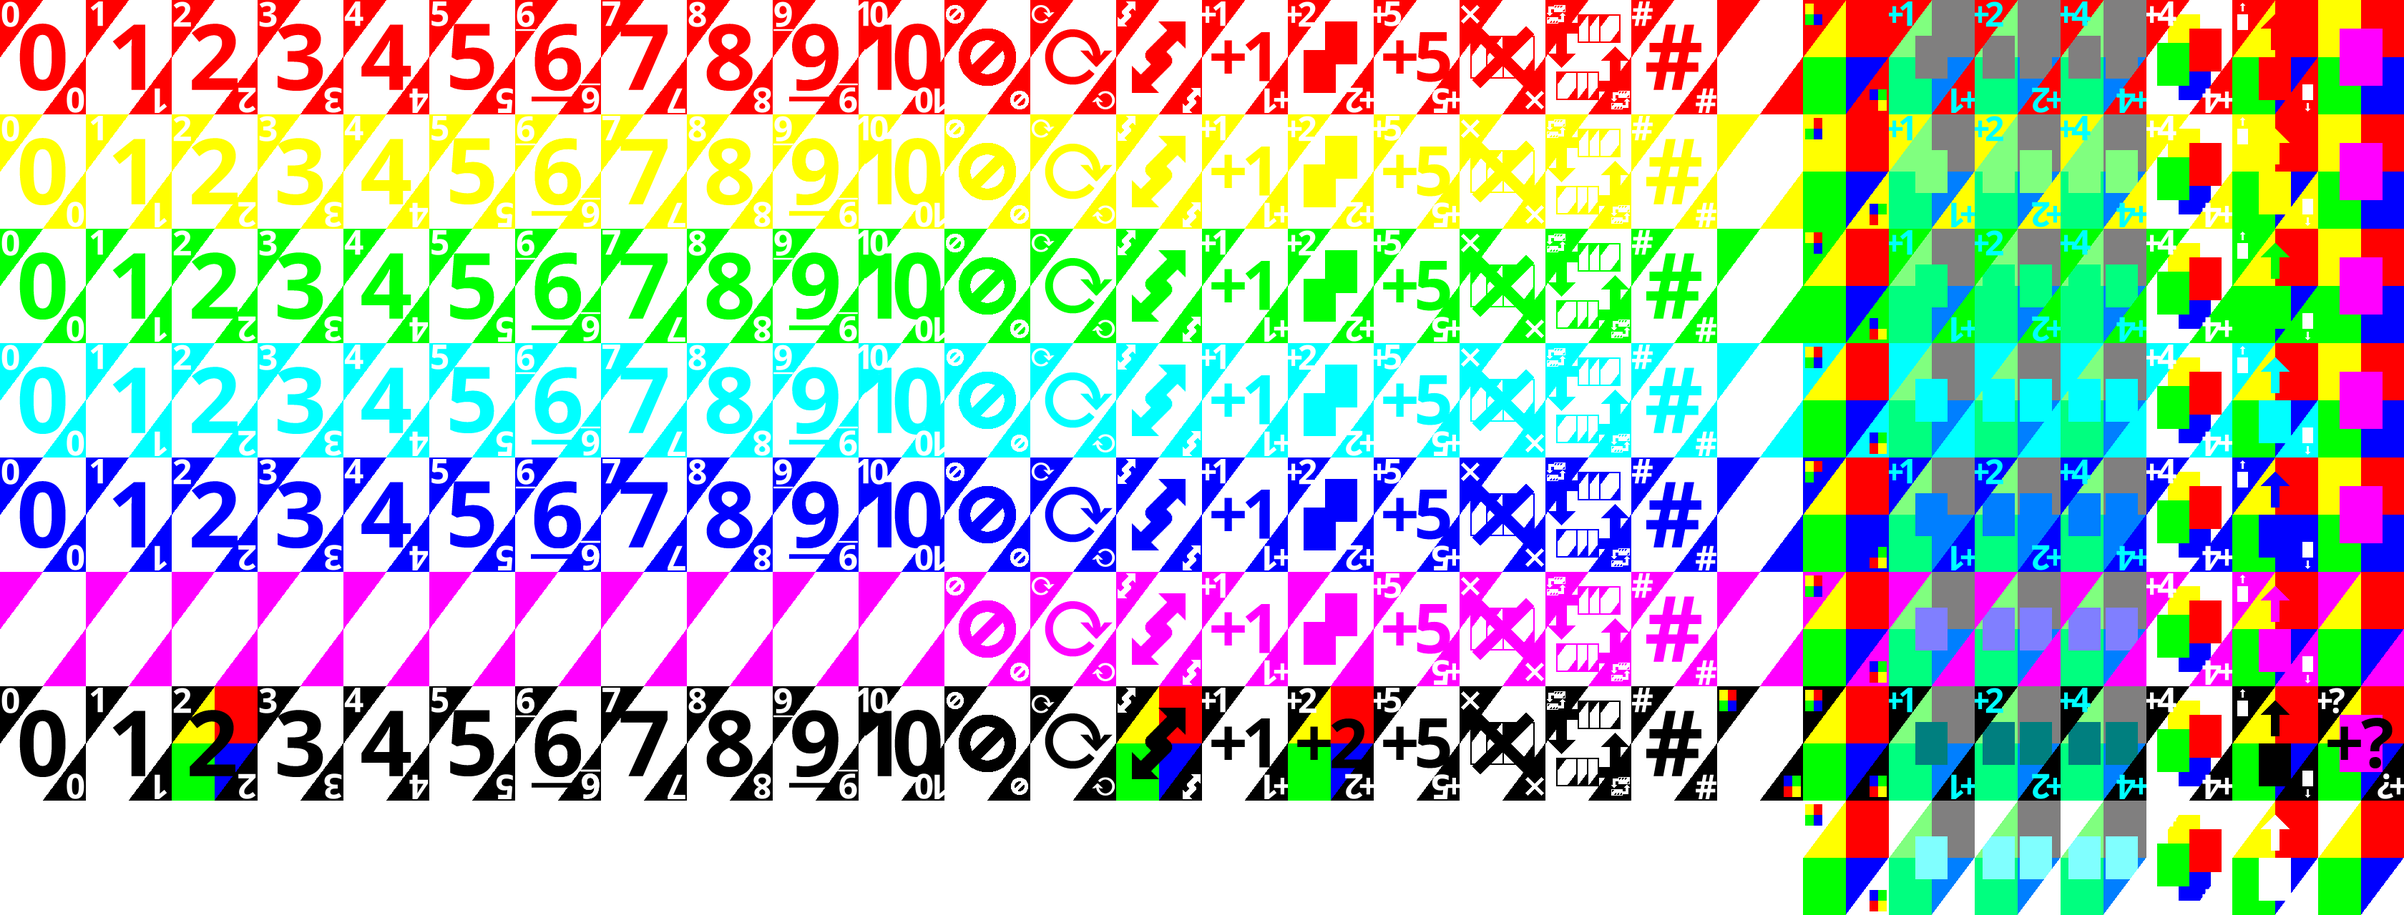
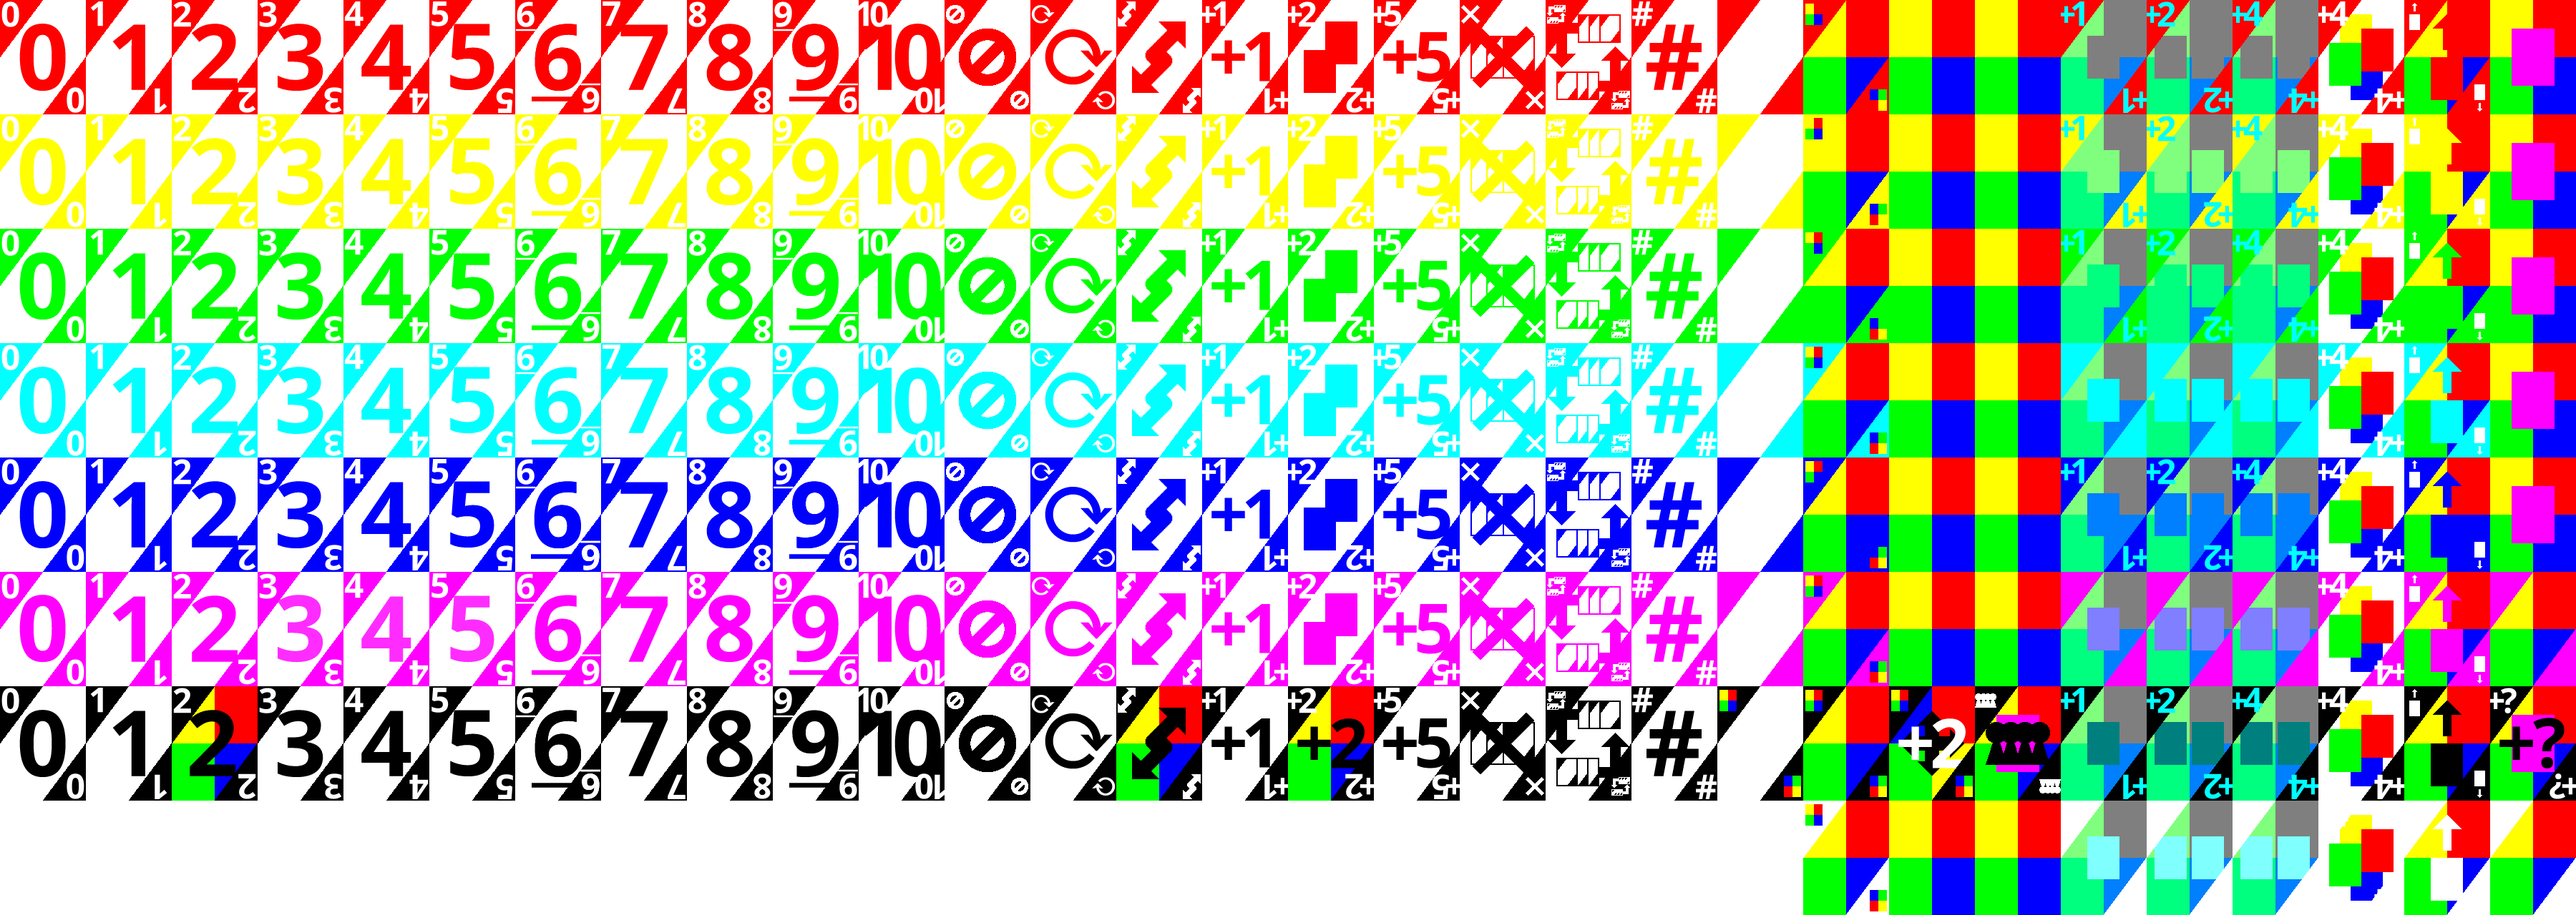
添加项目文件。

diff --git a/Uno/Uno.cs b/Uno/Uno.cs
@@ -15,12 +15,14 @@ namespace Uno
         private static readonly byte[]
             mvcList = new byte[UnoNumber.MaxValue]
             {
-                UnoNumber.WildHitfire,
+                UnoNumber.WildHitFire,
                 UnoNumber.WildDrawColor,
                 UnoNumber.WildDraw4,
                 UnoNumber.WildDownpourDraw4,
                 UnoNumber.WildDownpourDraw2,
                 UnoNumber.WildDownpourDraw1,
+                UnoNumber.WildAllHit,
+                UnoNumber.WildAttackAttack,
                 UnoNumber.Wild,
                 UnoNumber.Blank,
                 UnoNumber.DiscardAll,
@@ -48,25 +50,29 @@ namespace Uno
                 UnoNumber.Blank,
                 UnoNumber.TradeHands,
                 UnoNumber.Wild,
+                UnoNumber.WildAttackAttack,
+                UnoNumber.WildAllHit,
                 UnoNumber.WildDownpourDraw1,
                 UnoNumber.WildDownpourDraw2,
                 UnoNumber.WildDownpourDraw4,
                 UnoNumber.WildDraw4,
                 UnoNumber.WildDrawColor,
-                UnoNumber.WildHitfire
+                UnoNumber.WildHitFire
             },
             wildPlaylist = new byte[UnoNumber.MaxValue]
             {
                 UnoNumber.Wild,
                 2,
                 UnoNumber.Blank,
+                UnoNumber.WildAttackAttack,
+                UnoNumber.WildAllHit,
                 UnoNumber.WildDownpourDraw1,
                 UnoNumber.WildDownpourDraw2,
                 UnoNumber.WildDownpourDraw4,
                 UnoNumber.Draw2,
                 UnoNumber.WildDraw4,
                 UnoNumber.WildDrawColor,
-                UnoNumber.WildHitfire,
+                UnoNumber.WildHitFire,
                 UnoNumber.Reverse,
                 UnoNumber.SkipEveryone,
                 UnoNumber.DiscardAll,
@@ -338,10 +344,10 @@ namespace Uno
             else if (!options.mnuPlayOrDrawAll.Checked
                 && lblCards[1].Text == UnoNumberName.WildHitfire && draw > 0)
             {
-                if (players[player].cards[UnoColor.Black, UnoNumber.WildHitfire] > 0)
+                if (players[player].cards[UnoColor.Black, UnoNumber.WildHitFire] > 0)
                 {
                     bestCard.color = UnoColor.Black;
-                    bestCard.number = UnoNumber.WildHitfire;
+                    bestCard.number = UnoNumber.WildHitFire;
                 }
                 else if (options.mnuWildPunch.Checked
                     && players[player].cards[UnoColor.Black, UnoNumber.Reverse] > 0)
@@ -765,7 +771,7 @@ namespace Uno
                             goto deny;
                         break;
                     case UnoNumberName.WildHitfire:
-                        if (draw > 0 && card[0].number != UnoNumber.WildHitfire
+                        if (draw > 0 && card[0].number != UnoNumber.WildHitFire
                             && (card[0].number != UnoNumber.Reverse || card.Last().color != UnoColor.Black))
                             goto deny;
                         break;
@@ -1445,12 +1451,12 @@ namespace Uno
                         return new Card(UnoColor.Black, UnoNumber.Reverse);
                     return null;
                 }
-                if (backNumber == UnoNumber.WildHitfire && !options.mnuPlayOrDrawAll.Checked)
+                if (backNumber == UnoNumber.WildHitFire && !options.mnuPlayOrDrawAll.Checked)
                 {
                     if (pile.cards[UnoColor.Black, UnoNumber.Reverse] > 0)
                         return new Card(UnoColor.Black, UnoNumber.Reverse);
-                    if (pile.cards[UnoColor.Black, UnoNumber.WildHitfire] > 0)
-                        return new Card(UnoColor.Black, UnoNumber.WildHitfire);
+                    if (pile.cards[UnoColor.Black, UnoNumber.WildHitFire] > 0)
+                        return new Card(UnoColor.Black, UnoNumber.WildHitFire);
                     return null;
                 }
                 if (backNumber == UnoNumber.WildDrawColor && !options.mnuPlayOrDrawAll.Checked)
@@ -1686,12 +1692,14 @@ namespace Uno
                 UnoNumber.Number => UnoNumberName.Number,
                 UnoNumber.Blank => options.txtBlankText.Text,
                 UnoNumber.Wild => UnoNumberName.Wild,
+                UnoNumber.WildAttackAttack => UnoNumberName.WildAttackAttack,
+                UnoNumber.WildAllHit => UnoNumberName.WildAllHit,
                 UnoNumber.WildDownpourDraw1 => UnoNumberName.WildDownpourDraw1,
                 UnoNumber.WildDownpourDraw2 => UnoNumberName.WildDownpourDraw2,
                 UnoNumber.WildDownpourDraw4 => UnoNumberName.WildDownpourDraw4,
                 UnoNumber.WildDraw4 => UnoNumberName.WildDraw4,
                 UnoNumber.WildDrawColor => UnoNumberName.WildDrawColor,
-                UnoNumber.WildHitfire => UnoNumberName.WildHitfire,
+                UnoNumber.WildHitFire => UnoNumberName.WildHitfire,
                 UnoNumber.Null => UnoNumberName.Null,
                 _ => id + "",
             };
@@ -1715,12 +1723,14 @@ namespace Uno
                 UnoNumberName.TradeHands => UnoNumber.TradeHands,
                 UnoNumberName.Number => UnoNumber.Number,
                 UnoNumberName.Wild => UnoNumber.Wild,
+                UnoNumberName.WildAttackAttack => UnoNumber.WildAttackAttack,
+                UnoNumberName.WildAllHit => UnoNumber.WildAllHit,
                 UnoNumberName.WildDownpourDraw1 => UnoNumber.WildDownpourDraw1,
                 UnoNumberName.WildDownpourDraw2 => UnoNumber.WildDownpourDraw2,
                 UnoNumberName.WildDownpourDraw4 => UnoNumber.WildDownpourDraw4,
                 UnoNumberName.WildDraw4 => UnoNumber.WildDraw4,
                 UnoNumberName.WildDrawColor => UnoNumber.WildDrawColor,
-                UnoNumberName.WildHitfire => UnoNumber.WildHitfire,
+                UnoNumberName.WildHitfire => UnoNumber.WildHitFire,
                 UnoNumberName.Null => UnoNumber.Null,
                 _ => byte.Parse(number),
             };
@@ -1744,12 +1754,14 @@ namespace Uno
                 UnoNumber.TradeHands => "Trade Hands",
                 UnoNumber.Number => "Wild Number",
                 UnoNumber.Wild => "Wild",
+                UnoNumber.WildAttackAttack => "Wild Attack-Attack",
+                UnoNumber.WildAllHit => "Wild All Hit",
                 UnoNumber.WildDownpourDraw1 => "Wild Downpour Draw One",
                 UnoNumber.WildDownpourDraw2 => "Wild Downpour Draw Two",
                 UnoNumber.WildDownpourDraw4 => "Wild Downpour Draw Four",
                 UnoNumber.WildDraw4 => "Wild Draw Four",
                 UnoNumber.WildDrawColor => "Wild Draw Color",
-                UnoNumber.WildHitfire => "Wild Hit-fire",
+                UnoNumber.WildHitFire => "Wild Hit-Fire",
                 UnoNumber.Null => "Null",
                 _ => number + "",
             };
@@ -1807,9 +1819,11 @@ namespace Uno
                 UnoNumber.Number
                 => 40,
                 UnoNumber.Wild or
+                UnoNumber.WildAttackAttack or
+                UnoNumber.WildAllHit or
                 UnoNumber.WildDownpourDraw4 or
                 UnoNumber.WildDraw4 or
-                UnoNumber.WildHitfire
+                UnoNumber.WildHitFire
                 => 50,
                 UnoNumber.WildDrawColor
                 => 60,
@@ -1904,12 +1918,14 @@ namespace Uno
                         + (downpourDraw > 0 ? $"\n　　\t所有玩家罚抽 {downpourDraw} 张牌" : "");
                     return s == "" ? "普通的空白牌" : s.Substring(4);
                 case UnoNumber.Wild: return "";
+                case UnoNumber.WildAttackAttack: return "选择一位玩家罚抽 2 张牌";
+                case UnoNumber.WildAllHit: return "所有玩家罚抽 1 张牌";
                 case UnoNumber.WildDownpourDraw1: return "所有玩家罚抽 1 张牌";
                 case UnoNumber.WildDownpourDraw2: return "所有玩家罚抽 2 张牌";
                 case UnoNumber.WildDownpourDraw4: return "所有玩家罚抽 4 张牌";
                 case UnoNumber.WildDraw4: return "下家罚抽 4 张牌";
                 case UnoNumber.WildDrawColor: return "下家罚抽牌直至抽到被指定顏色的牌";
-                case UnoNumber.WildHitfire: return "下家罚抽牌盒中的所有牌";
+                case UnoNumber.WildHitFire: return "下家罚抽牌盒中的所有牌";
                 default: return $"普通的 {number} 号牌";
             };
         }
@@ -2038,9 +2054,11 @@ namespace Uno
                         case UnoNumber.Draw5:
                         case UnoNumber.WildDraw4:
                         case UnoNumber.WildDrawColor:
-                        case UnoNumber.WildHitfire:
+                        case UnoNumber.WildHitFire:
                             Draw(NextPlayer(index));
                             break;
+                        case UnoNumber.WildAttackAttack:
+                        case UnoNumber.WildAllHit:
                         case UnoNumber.WildDownpourDraw1:
                         case UnoNumber.WildDownpourDraw2:
                         case UnoNumber.WildDownpourDraw4:
@@ -3341,7 +3359,7 @@ namespace Uno
                 pile.cards[UnoColor.Black, UnoNumber.WildDrawColor] = 4 * decks - GetOnplayersCards(UnoColor.Black, UnoNumber.WildDrawColor);
             if (options.mnuWildHitfire.Checked)
             {
-                pile.cards[UnoColor.Black, UnoNumber.WildHitfire] = 2 * decks - GetOnplayersCards(UnoColor.Black, UnoNumber.WildHitfire);
+                pile.cards[UnoColor.Black, UnoNumber.WildHitFire] = 2 * decks - GetOnplayersCards(UnoColor.Black, UnoNumber.WildHitFire);
             }
             if (options.mnuWildPunch.Checked)
                 pile.cards[UnoColor.Black, UnoNumber.Reverse] = 4 * decks - GetOnplayersCards(UnoColor.Black, UnoNumber.Reverse);
@@ -4022,6 +4040,10 @@ namespace Uno
                     case UnoNumberName.Draw5:
                         AddDraw(5);
                         break;
+                    case UnoNumberName.WildAttackAttack:
+                        break;
+                    case UnoNumberName.WildAllHit:
+                        break;
                     case UnoNumberName.WildDownpourDraw1:
                         downpour.count += options.mnuDoubleDraw.Checked ? 2 : 1;
                         break;
@@ -4408,14 +4430,16 @@ namespace Uno
             Number = 19,
             Blank = 20,
             Wild = 21,
-            WildDownpourDraw1 = 22,
-            WildDownpourDraw2 = 23,
-            WildDownpourDraw4 = 24,
-            WildDraw4 = 25,
-            WildDrawColor = 26,
-            WildHitfire = 27,
-            Null = 28,
-            MaxValue = 28;
+            WildAttackAttack = 22,
+            WildAllHit = 23,
+            WildDownpourDraw1 = 24,
+            WildDownpourDraw2 = 25,
+            WildDownpourDraw4 = 26,
+            WildDraw4 = 27,
+            WildDrawColor = 28,
+            WildHitFire = 29,
+            Null = 30,
+            MaxValue = 30;
     }
 
     public class Card
@@ -4493,22 +4517,24 @@ namespace Uno
 
     public class UnoNumberName
     {
-        public const string Skip = "⊘";
-        public const string SkipEveryone = "⟳";
-        public const string Reverse = "⇅";
-        public const string Draw1 = "+1";
-        public const string Draw2 = "+2";
-        public const string Draw5 = "+5";
-        public const string DiscardAll = "×";
-        public const string TradeHands = "<>";
-        public const string Number = "#";
-        public const string Wild = "∷";
-        public const string WildDownpourDraw1 = "!1";
-        public const string WildDownpourDraw2 = "!2";
-        public const string WildDownpourDraw4 = "!4";
-        public const string WildDraw4 = "+4";
-        public const string WildDrawColor = "↑";
-        public const string WildHitfire = "+?";
-        public const string Null = "";
+        public const string Skip = "⊘",
+            SkipEveryone = "⟳",
+            Reverse = "⇅",
+            Draw1 = "+1",
+            Draw2 = "+2",
+            Draw5 = "+5",
+            DiscardAll = "×",
+            TradeHands = "<>",
+            Number = "#",
+            Wild = "∷",
+            WildAttackAttack = "2+",
+            WildAllHit = "⚥⚥",
+            WildDownpourDraw1 = "!1",
+            WildDownpourDraw2 = "!2",
+            WildDownpourDraw4 = "!4",
+            WildDraw4 = "+4",
+            WildDrawColor = "↑",
+            WildHitfire = "+?",
+            Null = "";
     }
 }
